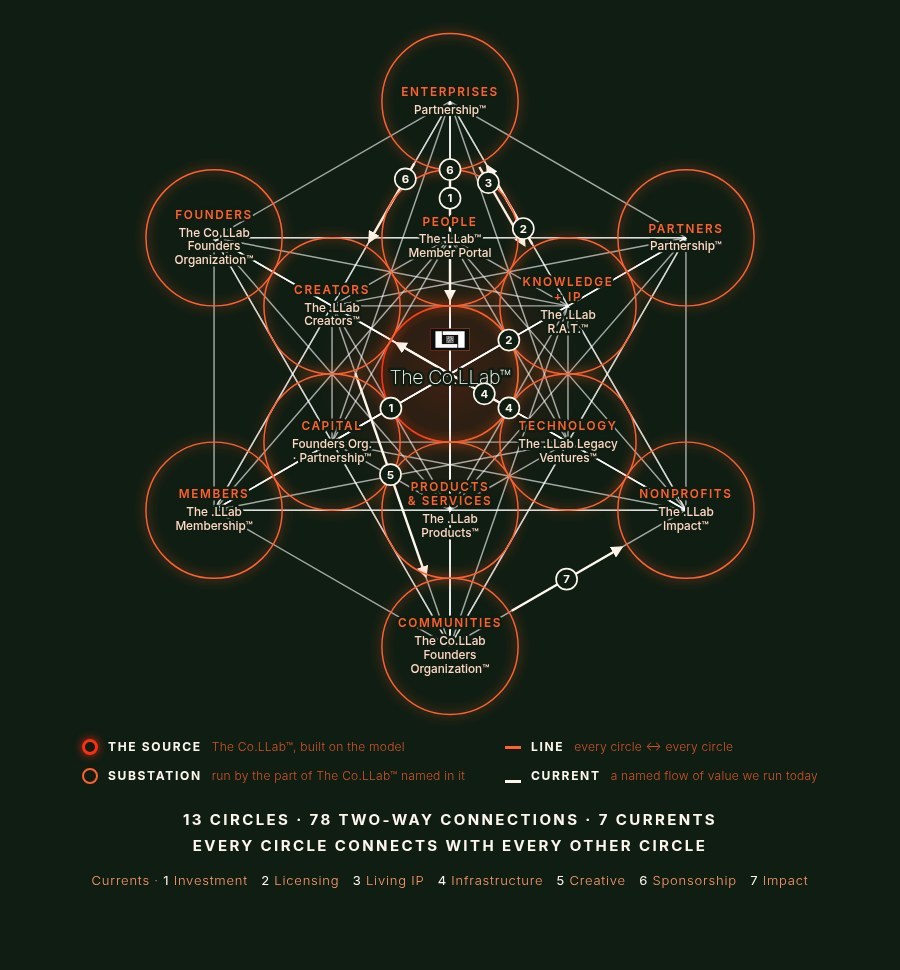
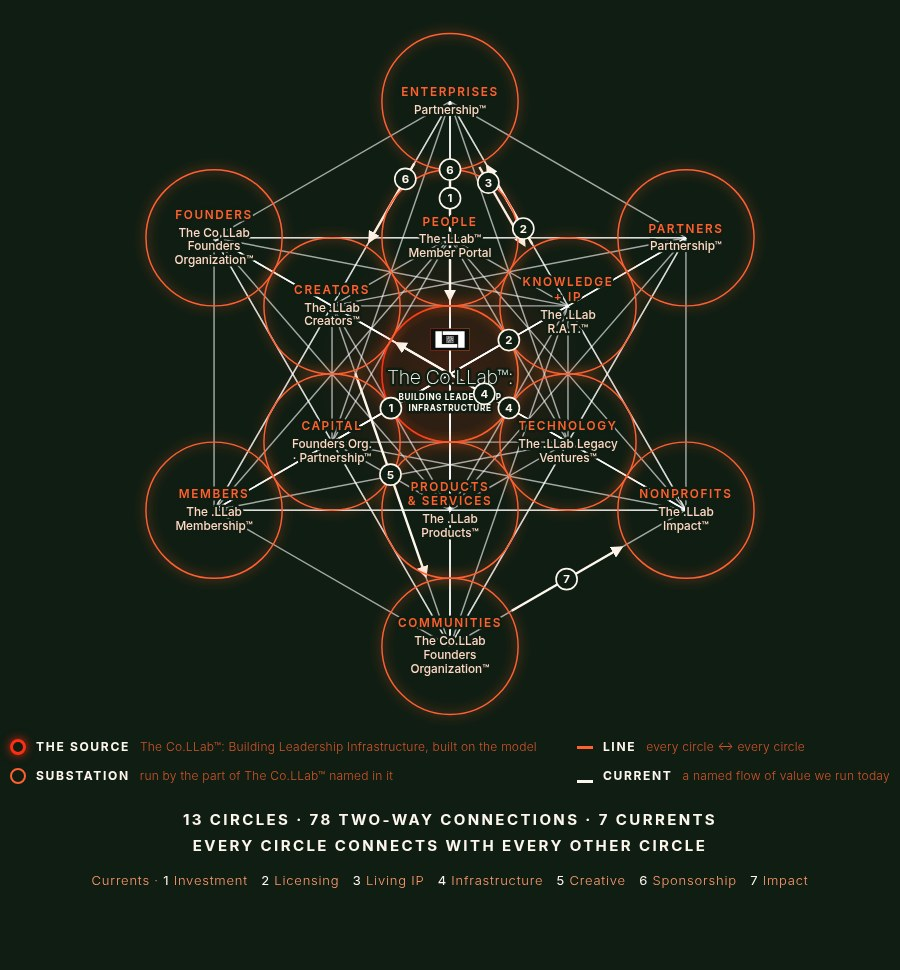
Use the full name The Co.LLab™: Building Leadership Infrastructure in the figures

Changed region(s): [[0.0, 0.7423, 0.4978, 0.8041], [0.4978, 0.7423, 0.9956, 0.8041], [0.4356, 0.3711, 0.56, 0.433]]

diff --git a/js/oe-figures.js b/js/oe-figures.js
@@ -288,10 +288,10 @@ function mFig(mode){
    let best=null,bd=-1;for(let t=4;t<=16;t++){const m=[ax+(bx-ax)*t/20,ay+(by-ay)*t/20],d=Math.min(...pts.map(p=>Math.hypot(m[0]-p[0],m[1]-p[1])));if(d>bd){bd=d;best=m;}}
    const bid=reg('badge',{name:`Current marker ${k} · ${cu.n}`,fn:`${cu.d}. ${cu.w}`});
    top+=`<g class="oef-part" data-p="${bid}" data-t="badge"><circle cx="${best[0].toFixed(1)}" cy="${best[1].toFixed(1)}" r="9.5" fill="${C.bg}" stroke="${C.paper}" stroke-width="1.4"/><text x="${best[0].toFixed(1)}" y="${(best[1]+3.6).toFixed(1)}" text-anchor="middle" font-size="10.5" font-weight="700" fill="${C.paper}">${k}</text></g>`;});}
- const sid=reg('source',mode===2?{name:'The Source · The Co.LLab™'}:undefined);
+ const sid=reg('source',mode===2?{name:'The Source · The Co.LLab™: Building Leadership Infrastructure'}:undefined);
  s+=`<g class="oef-part" data-p="${sid}" data-t="source"><circle cx="${cx}" cy="${cy}" r="${r}" fill="none" pointer-events="visible" stroke="url(#fil${mode})" stroke-width="2.4" filter="url(#glow${mode})"/>
  <image href="${IMGBASE.replace(/editorial\/$/,'logo-mark.png')}" x="${cx-20}" y="${cy-42}" width="40" height="25.8"/>
- ${mode===2?`<text x="${cx}" y="${cy+12}" text-anchor="middle" font-size="16" font-weight="600" fill="${C.paper}" ${HALO}>The Co.LLab™</text>`:`<text x="${cx}" y="${cy+8}" text-anchor="middle" font-size="9.5" font-weight="700" letter-spacing="1.2" fill="${C.paper}" ${HALO}>OMNIDIRECTIONAL</text><text x="${cx}" y="${cy+21}" text-anchor="middle" font-size="9.5" font-weight="700" letter-spacing="1.2" fill="${C.paper}" ${HALO}>ENTERPRISE™</text>`}</g>`;
+ ${mode===2?`<text x="${cx}" y="${cy+8}" text-anchor="middle" font-size="13" font-weight="600" letter-spacing="0" fill="${C.paper}" ${HALO}>The Co.LLab™:</text><text x="${cx}" y="${cy+21}" text-anchor="middle" font-size="7.5" font-weight="700" letter-spacing="0.8" fill="${C.paper}" ${HALO}>BUILDING LEADERSHIP</text><text x="${cx}" y="${cy+31}" text-anchor="middle" font-size="7.5" font-weight="700" letter-spacing="0.8" fill="${C.paper}" ${HALO}>INFRASTRUCTURE</text>`:`<text x="${cx}" y="${cy+8}" text-anchor="middle" font-size="9.5" font-weight="700" letter-spacing="1.2" fill="${C.paper}" ${HALO}>OMNIDIRECTIONAL</text><text x="${cx}" y="${cy+21}" text-anchor="middle" font-size="9.5" font-weight="700" letter-spacing="1.2" fill="${C.paper}" ${HALO}>ENTERPRISE™</text>`}</g>`;
  MSLOT.forEach(([slot,n])=>{const b=node(n),[x,y]=c[slot],lines=mode===2?b.co:b.l,title=b.t||[b.n.toUpperCase()],ring=slot[0]==='i'?'Inner ring · independent':'Outer ring · external';
   const id=reg('branch',{name:`Substation · ${b.n}`,kind:`Circle · substation · ${ring}`,fn:(mode===2?`Run inside The Co.LLab™ by ${b.co.join(' ')}. `:'')+(b.l||[]).join(' ')+' It exchanges with the Source and with every other substation.'});
   const rows=title.length*12.5+lines.length*12.5+4;let yy=y-rows/2+10,t='';
@@ -310,9 +310,9 @@ const ICG='<defs><filter id="icg" x="-20%" y="-20%" width="140%" height="140%"><
 function mFew(){
  const W=760,H=760,cx=380,cy=380,rs=23.5,D=252;const spots=[[cx,cy],...[0,1,2,3,4,5].map(k=>[cx+D*Math.cos(rad(90+60*k)),cy-D*Math.sin(rad(90+60*k))])];
  let s=`<rect width="${W}" height="${H}" fill="${C.bg}"/>${ICG}`;
- spots.forEach(([x,y],i)=>{const id=reg('conductor',{name:i===0?'The Co.LLab™ · the Conductor at the centre':'Conductor'});s+=`<g class="oef-part" data-p="${id}" data-t="conductor"><circle cx="${x.toFixed(1)}" cy="${y.toFixed(1)}" r="${(5*rs).toFixed(1)}" fill="${C.bg}" fill-opacity="0" pointer-events="visible"/>${miniCube(x,y,rs,{lw:1,op:.85,cw:1.3})}</g>`;});
+ spots.forEach(([x,y],i)=>{const id=reg('conductor',{name:i===0?'The Co.LLab™: Building Leadership Infrastructure · the Conductor at the centre':'Conductor'});s+=`<g class="oef-part" data-p="${id}" data-t="conductor"><circle cx="${x.toFixed(1)}" cy="${y.toFixed(1)}" r="${(5*rs).toFixed(1)}" fill="${C.bg}" fill-opacity="0" pointer-events="visible"/>${miniCube(x,y,rs,{lw:1,op:.85,cw:1.3})}</g>`;});
  s+=connect(spots,rs+3,1.6,'Interconnection · Conductor ↔ Conductor');
- s+=`<image href="${IMGBASE.replace(/editorial\/$/,'logo-mark.png')}" x="${cx-12}" y="${cy-22}" width="24" height="15.5"/><text x="${cx}" y="${cy+10}" text-anchor="middle" font-size="9.5" font-weight="700" fill="${C.paper}" ${HALO}>The Co.LLab™</text>`;
+ s+=`<image href="${IMGBASE.replace(/editorial\/$/,'logo-mark.png')}" x="${cx-12}" y="${cy-22}" width="24" height="15.5"/><text x="${cx}" y="${cy+10}" text-anchor="middle" font-size="9.5" font-weight="700" fill="${C.paper}" ${HALO}><tspan x="${cx}">The Co.LLab™:</tspan><tspan x="${cx}" dy="10" font-size="6.5">BUILDING LEADERSHIP INFRASTRUCTURE</tspan></text>`;
  const [lx,ly]=spots[4];s+=`<text class="oef-lbl" x="${lx.toFixed(1)}" y="${(ly+5*rs+9).toFixed(1)}" text-anchor="middle">CONDUCTOR</text>`;
  s+=`<text class="oef-lbl" x="${cx}" y="${(cy-D/2+4).toFixed(1)}" text-anchor="middle">INTERCONNECTION</text>`;
  return wrapSvg(W,H,s,3);}
@@ -323,15 +323,15 @@ function mGrid(){
  let g='';ghosts.forEach(([x,y],i)=>{const id=reg('grid',i===0?{name:'The Grid · one circle of the next, larger model'}:{name:'The next Grid'});g+=`<circle class="oef-part" data-p="${id}" data-t="grid" cx="${x.toFixed(1)}" cy="${y.toFixed(1)}" r="${big}" fill="none" stroke="${C.paper}" stroke-opacity=".55" stroke-width="2"/>`;});
  for(let i=0;i<7;i++)for(let j=i+1;j<7;j++){g+=`<line x1="${ghosts[i][0].toFixed(1)}" y1="${ghosts[i][1].toFixed(1)}" x2="${ghosts[j][0].toFixed(1)}" y2="${ghosts[j][1].toFixed(1)}" stroke="${C.paper}" stroke-opacity=".35" stroke-width="1.5"/>`;}
  s+=`<g mask="url(#gmask)">${g}</g>`;
- spots.forEach(([x,y],i)=>{const id=reg('conductor',{name:i===0?'The Co.LLab™ · the Conductor at the centre':'Conductor'});s+=`<g class="oef-part" data-p="${id}" data-t="conductor"><circle cx="${x.toFixed(1)}" cy="${y.toFixed(1)}" r="${G}" fill="${C.bg}" fill-opacity="0" pointer-events="visible"/>${miniCube(x,y,G/5,{lw:.7,op:.85,cw:.9})}</g>`;});
+ spots.forEach(([x,y],i)=>{const id=reg('conductor',{name:i===0?'The Co.LLab™: Building Leadership Infrastructure · the Conductor at the centre':'Conductor'});s+=`<g class="oef-part" data-p="${id}" data-t="conductor"><circle cx="${x.toFixed(1)}" cy="${y.toFixed(1)}" r="${G}" fill="${C.bg}" fill-opacity="0" pointer-events="visible"/>${miniCube(x,y,G/5,{lw:.7,op:.85,cw:.9})}</g>`;});
  s+=connect(spots,G/5+2,1.4,'Interconnection · Conductor ↔ Conductor');
- s+=`<text x="${cx}" y="${cy+4}" text-anchor="middle" font-size="10" font-weight="700" fill="${C.paper}" ${HALO}>The Co.LLab™</text>`;
+ s+=`<text x="${cx}" y="${cy+4}" text-anchor="middle" font-size="10" font-weight="700" fill="${C.paper}" ${HALO}><tspan x="${cx}">The Co.LLab™:</tspan><tspan x="${cx}" dy="10" font-size="6.5">BUILDING LEADERSHIP INFRASTRUCTURE</tspan></text>`;
  s+=`<text class="oef-lbl" x="${cx}" y="${(cy-big-8).toFixed(1)}" text-anchor="middle">THE GRID · ONE CIRCLE OF THE NEXT MODEL</text>`;
  return wrapSvg(W,H,s,4);}
 
 const CAP={
  1:'<b>Figure 1 · Phase I · Foundations.</b> The Omnidirectional Enterprise Model™: the Source at the centre and 12 substations around it, independent ones on the inner ring and external ones on the outer ring. Transmission lines join each substation to the Source; Interconnections join every substation to every other. Every line runs both ways. 1 Source · 12 substations · 78 two-way lines.',
- 2:'<b>Figure 2 · Phase II · Infrastructure Planning & Management.</b> The model The Co.LLab™ runs on, with every connection drawn: each circle connects with every other circle, both ways. Each substation names the part of The Co.LLab™ that runs it, and the numbered Currents are the named flows of value we run today. 13 circles · 78 two-way connections · 7 Currents.',
+ 2:'<b>Figure 2 · Phase II · Infrastructure Planning & Management.</b> The model The Co.LLab™: Building Leadership Infrastructure runs on, with every connection drawn: each circle connects with every other circle, both ways. Each substation names the part of The Co.LLab™ that runs it, and the numbered Currents are the named flows of value we run today. 13 circles · 78 two-way connections · 7 Currents.',
  3:'<b>Figure 3 · Phase III · Internal Operating Systems.</b> Seven Conductors, each a whole copy of the model, every Conductor joined to every other by an Interconnection, both ways. Each new Conductor adds 13 circles. 7 Conductors · 91 circles · up to 4,095 two-way connections.',
  4:'<b>Figure 4 · Phase IV · Preservation.</b> The Grid: 13 Conductors on the 13 circles of a larger Omnidirectional Enterprise™, joined by its 78 lines. The next, larger one fades in at the edges: every Grid is one circle of a larger Omnidirectional Enterprise™, without end. 13 Conductors · 169 circles · up to 14,196 two-way connections.'
 };
